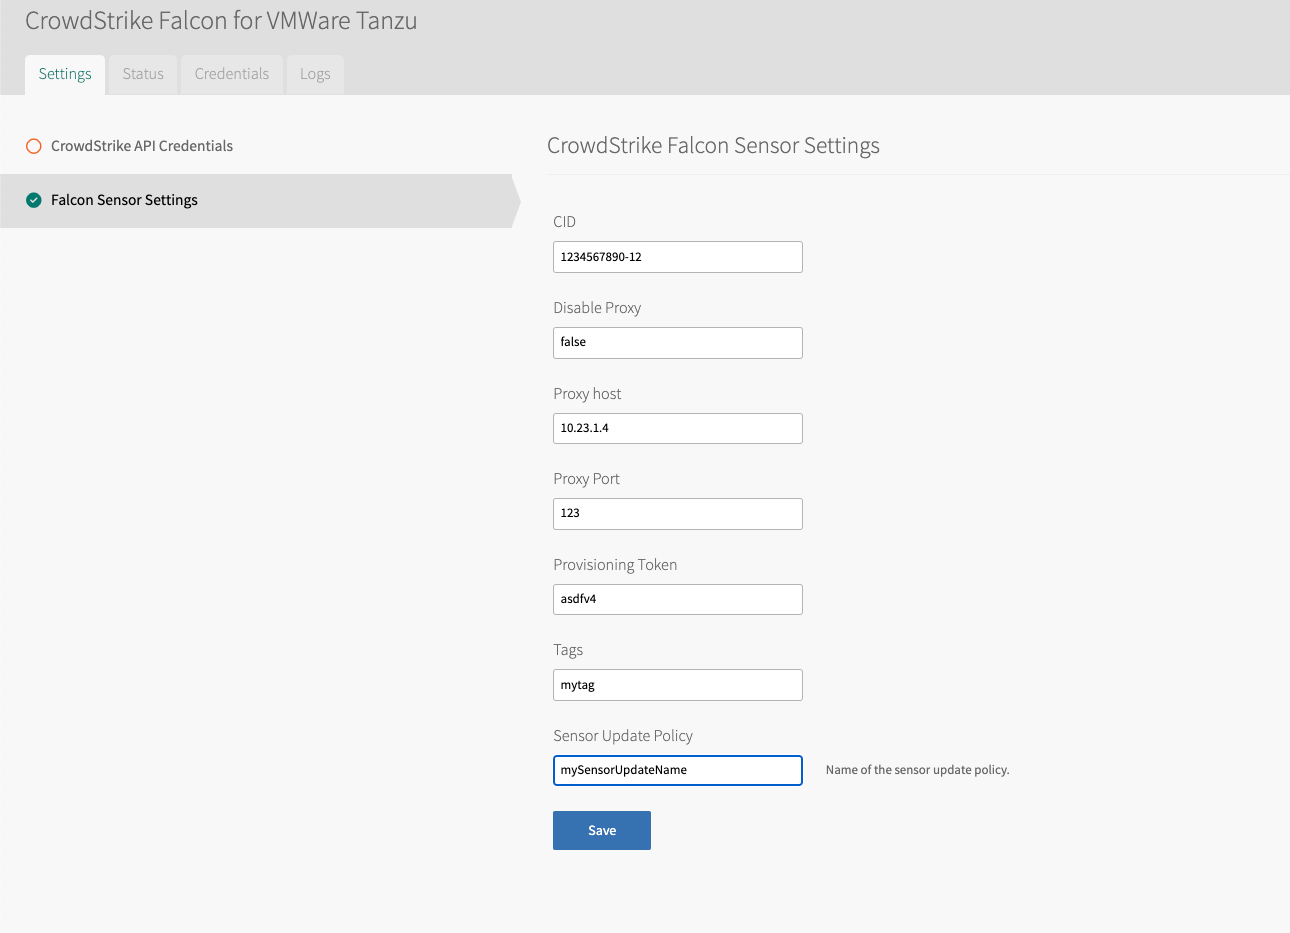
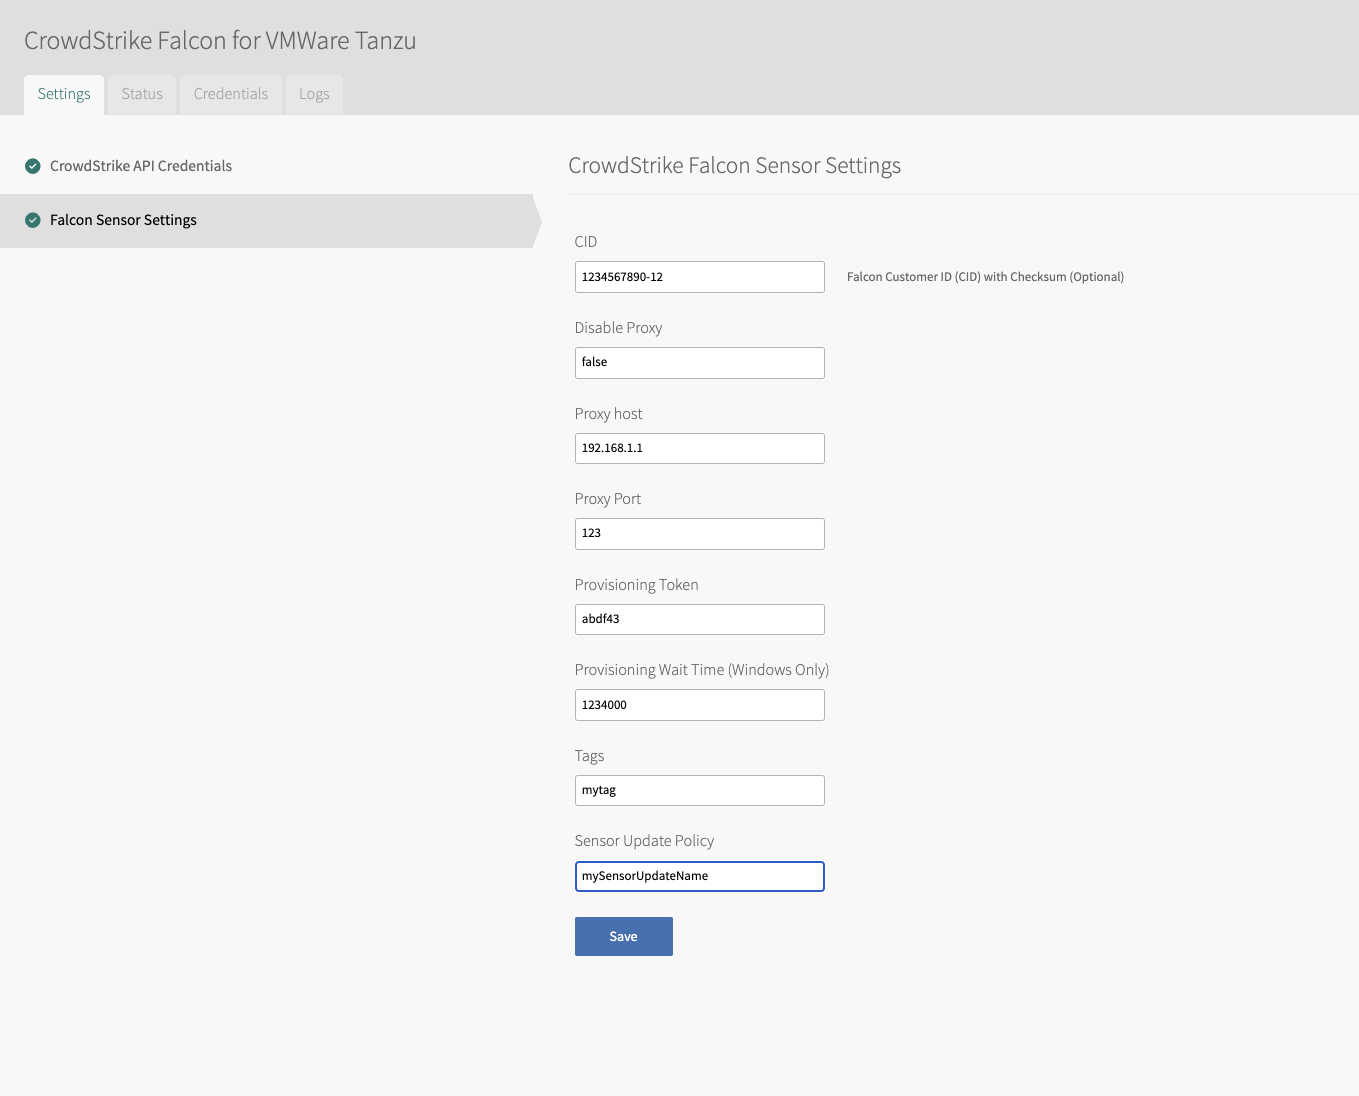
docs: minor updates for windows changes

diff --git a/docs/README.md b/docs/README.md
@@ -9,8 +9,8 @@ To successfully deploy the CrowdStrike Falcon Bosh Release, ensure the following
 - **Access to Broadcom Portal**: You must have access to download necessary files from the Broadcom portal.
 - **VMWare Tanzu Operations Manager**: Ensure you have VMWare Tanzu Operations Manager installed.
 - **VMWare Tanzu Application Service Version**: The minimum supported version of VMWare Tanzu Application Service (TAS) is 2.11.
-- **Supported Stemcells**: Currently, all Ubuntu Stemcells are supported.
-- **Proxy Configuration**: If your environment uses a proxy, it must be configured to allow the VMs to communicate with CrowdStrike's cloud. For detailed information, refer to the [Falcon Sensor for Linux System Requirements](https://falcon.crowdstrike.com/documentation/page/edd7717e/falcon-sensor-for-linux-system-requirements#l0523dcd).
+- **Supported Stemcells**: Currently, all Ubuntu and Windows Stemcells are supported.
+- **Proxy Configuration**: If your environment uses a proxy, it must be configured to allow the VMs to communicate with CrowdStrike's cloud. For detailed information, refer to the [Falcon Sensor for Linux System Requirements](https://falcon.crowdstrike.com/documentation/page/edd7717e/falcon-sensor-for-linux-system-requirements#l0523dcd) and/or the [Falcon Sensor for Windows Deployment](https://falcon.crowdstrike.com/documentation/page/ecc97e75/falcon-sensor-for-windows-deployment#e43dade4).
 
 ## Current Limitations
 
@@ -53,6 +53,7 @@ Follow these steps to install CrowdStrike Falcon in your VMWare Tanzu Applicatio
    - **Proxy Host Configuration**: Specify the proxy host for the sensor to communicate with the Falcon cloud.
    - **Proxy Port Configuration**: Specify the proxy port for the sensor to communicate with the Falcon cloud.
    - **Provisioning Token**: Enter the provisioning token for the sensor.
+   - **Provisioning Wait Time**: Enter the provisioning wait time for the sensor. (Windows only)
    - **Tags**: Enter the provisioning token for the sensor. Any sensor tags
    - **Sensor Update Policy**: The name of the sensor update policy for the installer to get the sensor version to install specified by the sensor update policy.
 
@@ -66,10 +67,11 @@ Follow these steps to install CrowdStrike Falcon in your VMWare Tanzu Applicatio
 
 ## Troubleshooting
 
-If you encounter any issues during the deployment process, the following logs will be generated under the directory `/var/vcap/sys/log/falcon-linux-sensor/` on the VMs:
+If you encounter any issues during the deployment process, the following logs will be generated on the VMs:
 
 - **`pre-start.stdout.log`**: This log file captures the standard output of the pre-start script.
 - **`pre-start.stderr.log`**: This log file captures the standard error output of the pre-start script.
 - **`falcon-installer.log`**: This log file contains detailed information about the Falcon sensor installation process. It includes messages about the progress of the installation, any errors encountered, and other relevant details.
 
+These logs can be found under `/var/vcap/sys/log/falcon-linux-sensor/` for Linux VMs and `C:\var\vcap\sys\log\falcon-windows-sensor` for Windows VMs.
 Review these logs for failures as to why the installation and deployment failed. When contacting CrowdStrike support, these logs should be provided.
